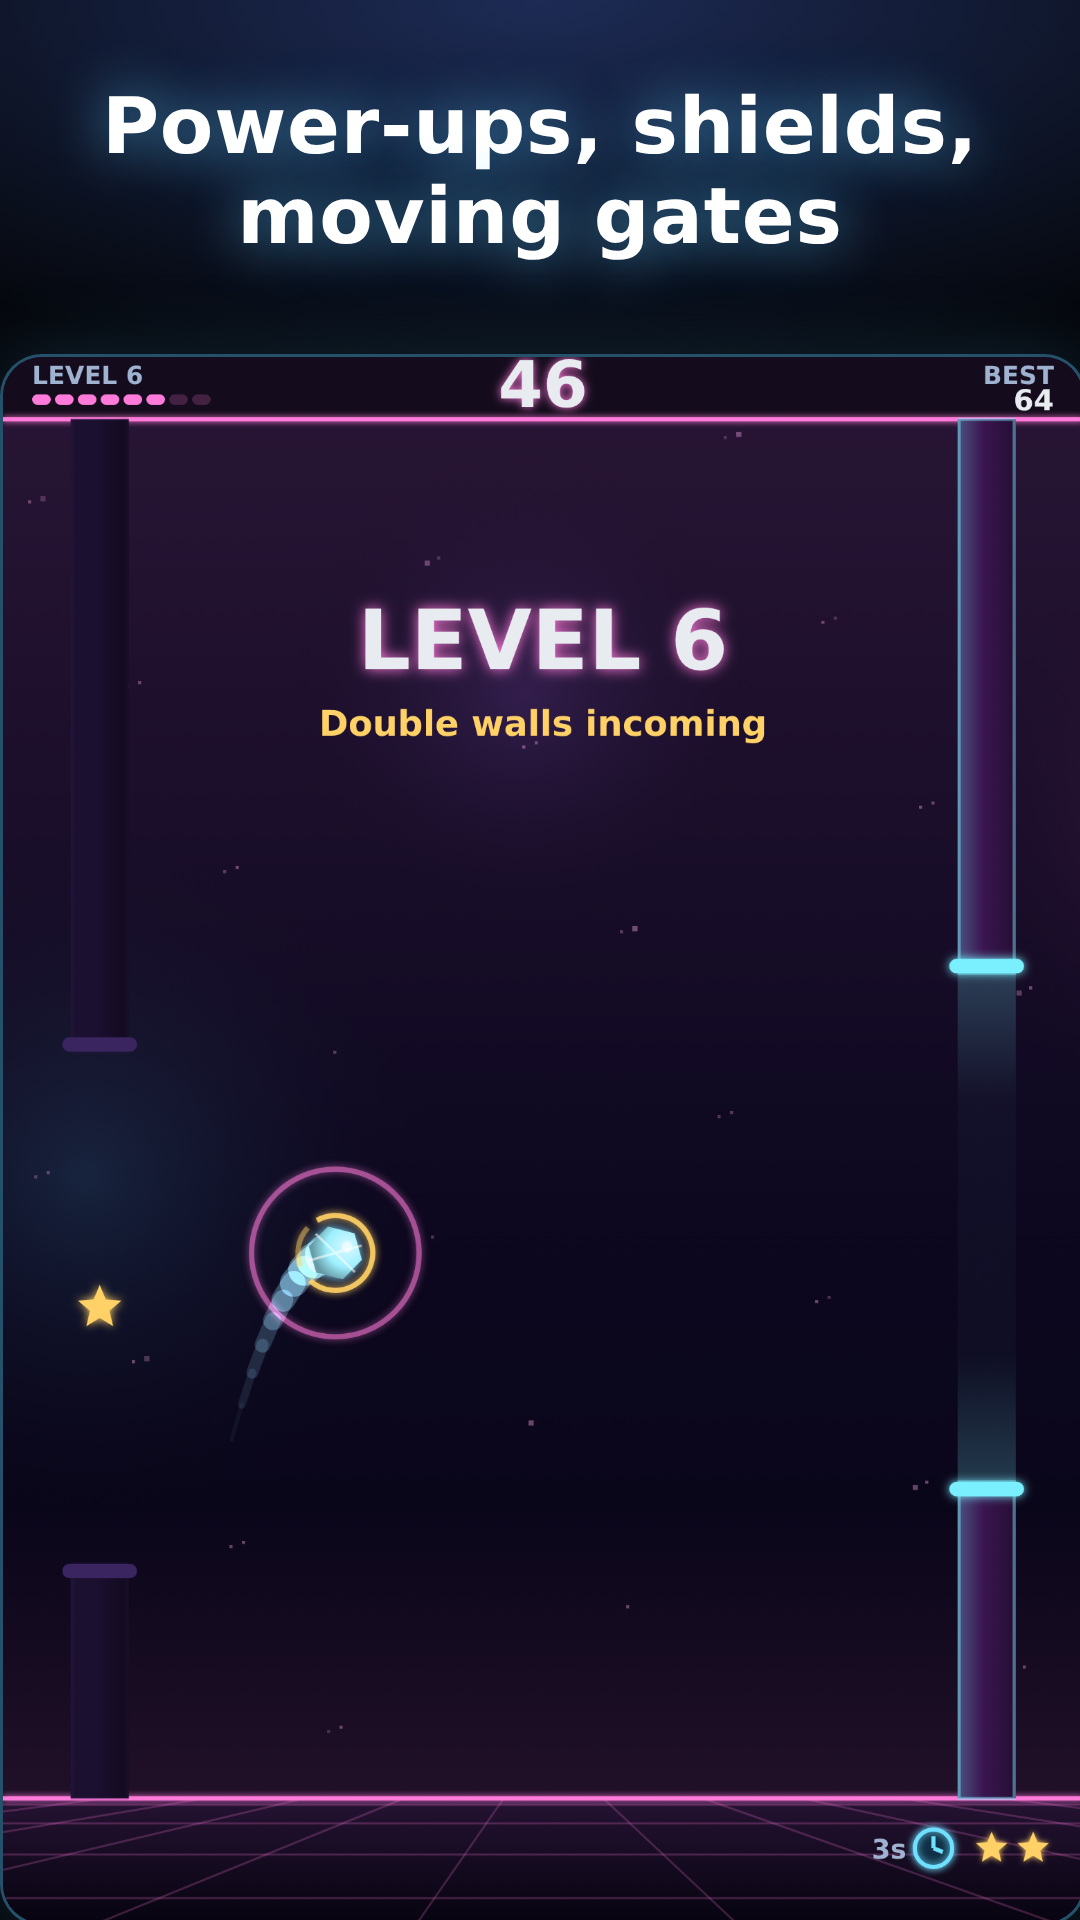
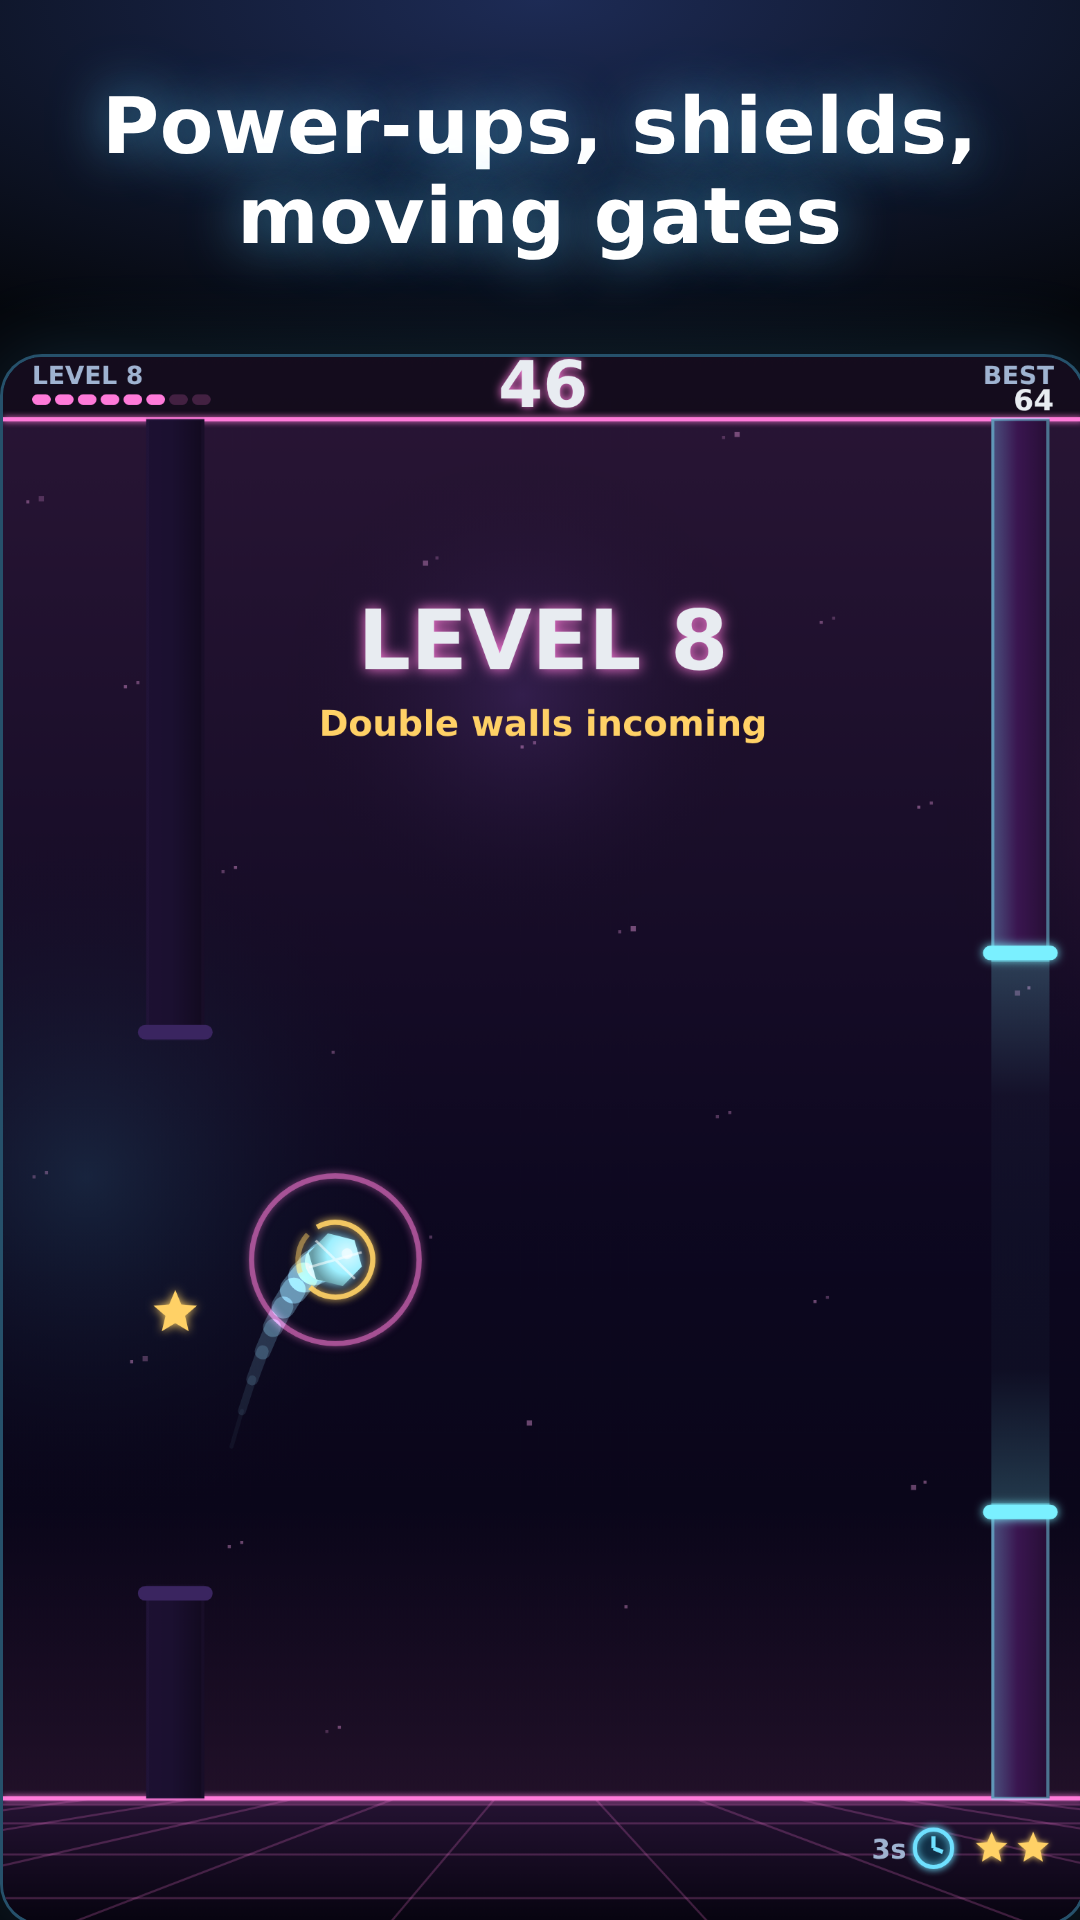
Sekme Gücü: zorluk yumuşatıldı (oyuncu geri bildirimi: "çok çabuk zorlaşıyor")
Gerçek oyunculardan ilk geri bildirim: oyun çok çabuk zorlaşıyor,
ilerlemek zor. Eski eğride dünya 60. saniyede tam hızın %55'ine
çıkıyor, bütün engeller ~1,5 dakikada açılıyordu.

- Zorluk zaman sabiti 75 → 140 sn: 60. saniyede hız 277 → 245,
  kapı 142 → 163; 120. saniyede hız 312 → 275, kapı 130 → 151
- Kapı 170 → 180, en dar 120 → 130; en yüksek hız 340 → 330
- Duvar aralığı 1,9 → 2,0 sn, daralması yarı hızda (0,01 → 0,005)
- Engeller daha geç: hareketli kapı 3 → 4, nefes alan kapı 4 → 6,
  çift duvar 6 → 8, zemin dikeni 7 → 9. bölüm (güç ve yıldız aynı)
- Sonsuz bölge tavanı da aynı oranda: hız 370, en dar kapı 115
- README ve mağaza 3. ekran görüntüsü ("Bölüm 8 · Çift duvarlar
  geliyor") yeni bölümlere göre

Bot (tools/kazanilabilirlik.js, telefon yüksekliği 800, kalkansız):
10. bölümü bitiren 5/8 → 8/8; --hedef 20 ile 18–20. bölüme çıkıyor.
test.js ve test-dom.js PASS; tek dosya yeniden derlendi.

Claude-Session: https://claude.ai/code/session_01SVdLHJmNaTHKmHpDTukGmr

diff --git a/oyun-tek-dosya.html b/oyun-tek-dosya.html
@@ -512,18 +512,18 @@ var THRUST = -700;
 var BOUNCE_V = -480;
 var MAX_VY = 900;
 var SPEED0 = 200;
-var SPEED_MAX = 340;
-var GAP_H0 = 170;
-var GAP_MIN = 120;
+var SPEED_MAX = 330;
+var GAP_H0 = 180;
+var GAP_MIN = 130;
 // Zorluk eğrisi: doğrusal değil, doygunluğa giden üstel yaklaşım.
 // İlk dakikada hızlı sertleşir, sonra yavaşlar ve bir tavanda durur;
 // böylece uzun koşular adil kalır, "sonsuz hızlanma" ile zorla bitmez.
-var DIFF_TAU = 75;
+var DIFF_TAU = 140; // 6 Ekim: oyuncu geri bildirimi "çok çabuk zorlaşıyor" → 75'ten yumuşatıldı
 var WALL_W = 28;
 var SPAWN_GRACE = 2.2;
 var SPAWN_INTERVAL_MIN = 1.3;
-var SPAWN_INTERVAL_MAX = 1.9;
-var SPAWN_RAMP = 0.01;
+var SPAWN_INTERVAL_MAX = 2.0;
+var SPAWN_RAMP = 0.005;
 
 function nextRand(state) {
   state.rngA = (state.rngA + 0x6D2B79F5) | 0;
@@ -551,12 +551,12 @@ function endless(level) {
 // Tavanda bile her dizilim geçilebilir kalır (MAX_JUMP, bot ölçümü: README).
 // Yeni öğeler bölümle açılır:
 //   2+  yıldız: kapının ortasında durur; toplanınca bir kalkan verir (en çok 1)
-//   3+  hareketli kapı: boşluk yukarı-aşağı salınır, genliği bölümle büyür
-//   4+  nefes alan kapı: ağız ortası sabit kalır, boyu daralıp genişler (hareketliyle birleşmez)
+//   4+  hareketli kapı: boşluk yukarı-aşağı salınır, genliği bölümle büyür
+//   6+  nefes alan kapı: ağız ortası sabit kalır, boyu daralıp genişler (hareketliyle birleşmez)
 //   5+  güç: kapının ortasında yıldız yerine çıkabilir —
 //         ⏱ yavaşlatma (dünya POWER_SLOW_F hızında akar) ya da küçülme (top yarıçapı POWER_SMALL_F)
-//   6+  çift duvar: art arda iki duvar, boşlukları birbirine kaydırılmış
-//   7+  zemin dikeni: duvarın hemen ardında zeminde dikenli şerit; üstüne sekmek öldürür,
+//   8+  çift duvar: art arda iki duvar, boşlukları birbirine kaydırılmış
+//   9+  zemin dikeni: duvarın hemen ardında zeminde dikenli şerit; üstüne sekmek öldürür,
 //       basılı tutup havada kalarak geçilir
 // Kalkan, bir duvar ya da diken çarpmasını yutar (tavanı değil).
 var LEVEL_COUNT = 10; // eşik uzunluğu (bölüm)
@@ -566,11 +566,11 @@ var ENDLESS_GAP = 15;
 var ENDLESS_SPAWN_MIN = 1.15;
 var GATES_PER_LEVEL = 8;
 var STAR_FROM = 2;
-var MOVE_FROM = 3;
-var DOUBLE_FROM = 6;
-var PULSE_FROM = 4;
+var MOVE_FROM = 4;
+var DOUBLE_FROM = 8;
+var PULSE_FROM = 6;
 var POWER_FROM = 5;
-var SPIKE_FROM = 7;
+var SPIKE_FROM = 9;
 var POWER_SLOW_F = 0.65;
 var POWER_SLOW_T = 4;
 var POWER_SMALL_F = 0.6;

diff --git a/logic.js b/logic.js
@@ -15,18 +15,18 @@ var THRUST = -700;
 var BOUNCE_V = -480;
 var MAX_VY = 900;
 var SPEED0 = 200;
-var SPEED_MAX = 340;
-var GAP_H0 = 170;
-var GAP_MIN = 120;
+var SPEED_MAX = 330;
+var GAP_H0 = 180;
+var GAP_MIN = 130;
 // Zorluk eğrisi: doğrusal değil, doygunluğa giden üstel yaklaşım.
 // İlk dakikada hızlı sertleşir, sonra yavaşlar ve bir tavanda durur;
 // böylece uzun koşular adil kalır, "sonsuz hızlanma" ile zorla bitmez.
-var DIFF_TAU = 75;
+var DIFF_TAU = 140; // 6 Ekim: oyuncu geri bildirimi "çok çabuk zorlaşıyor" → 75'ten yumuşatıldı
 var WALL_W = 28;
 var SPAWN_GRACE = 2.2;
 var SPAWN_INTERVAL_MIN = 1.3;
-var SPAWN_INTERVAL_MAX = 1.9;
-var SPAWN_RAMP = 0.01;
+var SPAWN_INTERVAL_MAX = 2.0;
+var SPAWN_RAMP = 0.005;
 
 function nextRand(state) {
   state.rngA = (state.rngA + 0x6D2B79F5) | 0;
@@ -54,12 +54,12 @@ function endless(level) {
 // Tavanda bile her dizilim geçilebilir kalır (MAX_JUMP, bot ölçümü: README).
 // Yeni öğeler bölümle açılır:
 //   2+  yıldız: kapının ortasında durur; toplanınca bir kalkan verir (en çok 1)
-//   3+  hareketli kapı: boşluk yukarı-aşağı salınır, genliği bölümle büyür
-//   4+  nefes alan kapı: ağız ortası sabit kalır, boyu daralıp genişler (hareketliyle birleşmez)
+//   4+  hareketli kapı: boşluk yukarı-aşağı salınır, genliği bölümle büyür
+//   6+  nefes alan kapı: ağız ortası sabit kalır, boyu daralıp genişler (hareketliyle birleşmez)
 //   5+  güç: kapının ortasında yıldız yerine çıkabilir —
 //         ⏱ yavaşlatma (dünya POWER_SLOW_F hızında akar) ya da küçülme (top yarıçapı POWER_SMALL_F)
-//   6+  çift duvar: art arda iki duvar, boşlukları birbirine kaydırılmış
-//   7+  zemin dikeni: duvarın hemen ardında zeminde dikenli şerit; üstüne sekmek öldürür,
+//   8+  çift duvar: art arda iki duvar, boşlukları birbirine kaydırılmış
+//   9+  zemin dikeni: duvarın hemen ardında zeminde dikenli şerit; üstüne sekmek öldürür,
 //       basılı tutup havada kalarak geçilir
 // Kalkan, bir duvar ya da diken çarpmasını yutar (tavanı değil).
 var LEVEL_COUNT = 10; // eşik uzunluğu (bölüm)
@@ -69,11 +69,11 @@ var ENDLESS_GAP = 15;
 var ENDLESS_SPAWN_MIN = 1.15;
 var GATES_PER_LEVEL = 8;
 var STAR_FROM = 2;
-var MOVE_FROM = 3;
-var DOUBLE_FROM = 6;
-var PULSE_FROM = 4;
+var MOVE_FROM = 4;
+var DOUBLE_FROM = 8;
+var PULSE_FROM = 6;
 var POWER_FROM = 5;
-var SPIKE_FROM = 7;
+var SPIKE_FROM = 9;
 var POWER_SLOW_F = 0.65;
 var POWER_SLOW_T = 4;
 var POWER_SMALL_F = 0.6;

diff --git a/magaza/ekran-goruntusu-uret.js b/magaza/ekran-goruntusu-uret.js
@@ -40,7 +40,7 @@ function sceneScript(kind, lang, caption) {
     var theme = S.find('map', kind === 'guc' ? 'nebula' : kind === 'son' ? 'neon' : kind === 'gunluk' ? 'gunbatimi' : 'gece');
     var skin = S.find('ball', kind === 'guc' ? 'kristal' : kind === 'son' ? 'alev' : kind === 'gunluk' ? 'gezegen' : 'klasik');
     var st = L.createState(kind === 'guc' ? 11 : kind === 'son' ? 5 : 3, { height: H, mods: { maxShield: 2, startShield: 1, powerMul: 1, magnet: 1 } });
-    st.level = kind === 'guc' ? 6 : 4;
+    st.level = kind === 'guc' ? 8 : 4;
     // Mantığı ilerlet; ölürse sahne için yeniden "oynuyor" say (yalnız görüntü üretimi)
     for (var i = 0; i < (kind === 'guc' ? 420 : 300); i++) {
       L.step(st, { action: (i % 34) < 12 }, 1 / 60);
@@ -61,7 +61,7 @@ function sceneScript(kind, lang, caption) {
     var view = {
       phase: 'playing', best: kind === 'son' ? 87 : 64, theme: theme, skin: skin, time: 1.4,
       fx: { trail: trail, particles: [], rings: [{ x: 160, y: st.y, life: 0.18, max: 0.35, color: theme.c.edge }], scorePop: 0.4 },
-      banner: kind === 'guc' ? { title: I.L('Bölüm {n}', { n: 6 }), sub: I.L('Çift duvarlar geliyor'), a: 1 } : null
+      banner: kind === 'guc' ? { title: I.L('Bölüm {n}', { n: 8 }), sub: I.L('Çift duvarlar geliyor'), a: 1 } : null
     };
     if (kind === 'oyun') {
       // Az önce geçilen kapı parlar, tam ortadan geçiş serisi

diff --git a/README.md b/README.md
@@ -30,15 +30,21 @@ duvarın kapısını topun mevcut yüksekliğine denk getirip çarpmadan geçmek
 duvara çarparsan ya da tuşu çok uzun süre basılı tutup tavana çarparsan oyun biter. Skor
 (**Kapı**) geçtiğin kapı sayısıdır; en yüksek skor (**Rekor**) tarayıcıda saklanır.
 
+**Zorluk yumuşatıldı (6 Ekim 2026, oyuncu geri bildirimi "çok çabuk zorlaşıyor, ilerlemek zor"):**
+zorluk zaman sabiti 75 → 140 sn (60. saniyede hız 277 → 245, kapı 142 → 163), kapı 170 → 180 / en dar
+120 → 130, en yüksek hız 340 → 330, duvar aralığı 1,9 → 2,0 sn ve daralması yarı hızda; yeni engeller
+daha geç: hareketli kapı 3 → 4, nefes alan 4 → 6, çift duvar 6 → 8, diken 7 → 9. bölüm. Bot (telefon
+yüksekliği 800, kalkansız): 10. bölümü bitiren 5/8 → 8/8; 20. bölüm hedefinde 18–20. bölüme çıkıyor.
+
 **Bölümler ve sonsuz mod (2 Ekim 2026):** Her bölüm 8 kapı. Oyun **sonsuzdur**; bitiş yok,
 yalnız ölünce biter. Her 10 bölümde bir **eşik** geçilir (kutlama + ödülde ★ 5). İlk eşikten
-(10. bölüm) sonra zorluk 20 bölüm boyunca yavaşça bir tavana çıkar: hız 340 → 380, en dar kapı
-120 → 105, duvar aralığı en az 1,3 → 1,15 sn; 30. bölümden sonra sabit kalır. Asıl hedef rekor.
+(10. bölüm) sonra zorluk 20 bölüm boyunca yavaşça bir tavana çıkar: hız 330 → 370, en dar kapı
+130 → 115, duvar aralığı en az 1,3 → 1,15 sn; 30. bölümden sonra sabit kalır. Asıl hedef rekor.
 Yeni öğeler bölümle açılır:
 - **Bölüm 2+ · Yıldız:** kapının ortasında durur; toplayınca topun çevresinde bir **kalkan**
   belirir (en fazla 1). Kalkan bir duvar çarpmasını affeder; tavanı affetmez.
-- **Bölüm 3+ · Hareketli kapı (mor):** boşluk yukarı-aşağı salınır; genlik bölümle büyür.
-- **Bölüm 6+ · Çift duvar:** art arda iki duvar, boşlukları birbirine kaydırılmış.
+- **Bölüm 4+ · Hareketli kapı (mor):** boşluk yukarı-aşağı salınır; genlik bölümle büyür.
+- **Bölüm 8+ · Çift duvar:** art arda iki duvar, boşlukları birbirine kaydırılmış.
 
 Adalet kuralları: art arda iki kapının yükseklik farkı en fazla 150 px'tir (top yalnız
 zeminden sekerek yükselir); çift duvardan sonraki duvar normal aralıkla gelir. Zaman
@@ -83,10 +89,10 @@ Tercih `localStorage`'da (`sekmeguc-ses`).
 ## Yeni güçler ve engeller (2 Ekim 2026)
 | Bölüm | Öğe | Ne yapar |
 |---|---|---|
-| 4+ | **Nefes alan kapı** (yeşil ağız) | Ağız ortası sabit kalır, boyu %72'ye kadar daralıp genişler; hareketli kapıyla birleşmez |
+| 6+ | **Nefes alan kapı** (yeşil ağız) | Ağız ortası sabit kalır, boyu %72'ye kadar daralıp genişler; hareketli kapıyla birleşmez |
 | 5+ | **⏱ Yavaşlatma** (mavi saat) | 4 sn boyunca duvarlar %65 hızla akar; topun düşüşü değişmez |
 | 5+ | **Küçülme** (pembe halka) | 6 sn boyunca top %60 boyuta iner, dar ağızlardan geçer |
-| 7+ | **Zemin dikeni** (kırmızı) | Duvarın ardında zeminde şerit; üstüne sekmek öldürür, basılı tutup havada kalarak geçilir |
+| 9+ | **Zemin dikeni** (kırmızı) | Duvarın ardında zeminde şerit; üstüne sekmek öldürür, basılı tutup havada kalarak geçilir |
 
 Güçler kapının ortasında yıldızın yerine çıkar; tekrar alınca süre baştan başlar. Kalkan bir
 diken çarpmasını da yutar. Etkin güçler ve kalan süreleri zeminin altında, sağda görünür.
